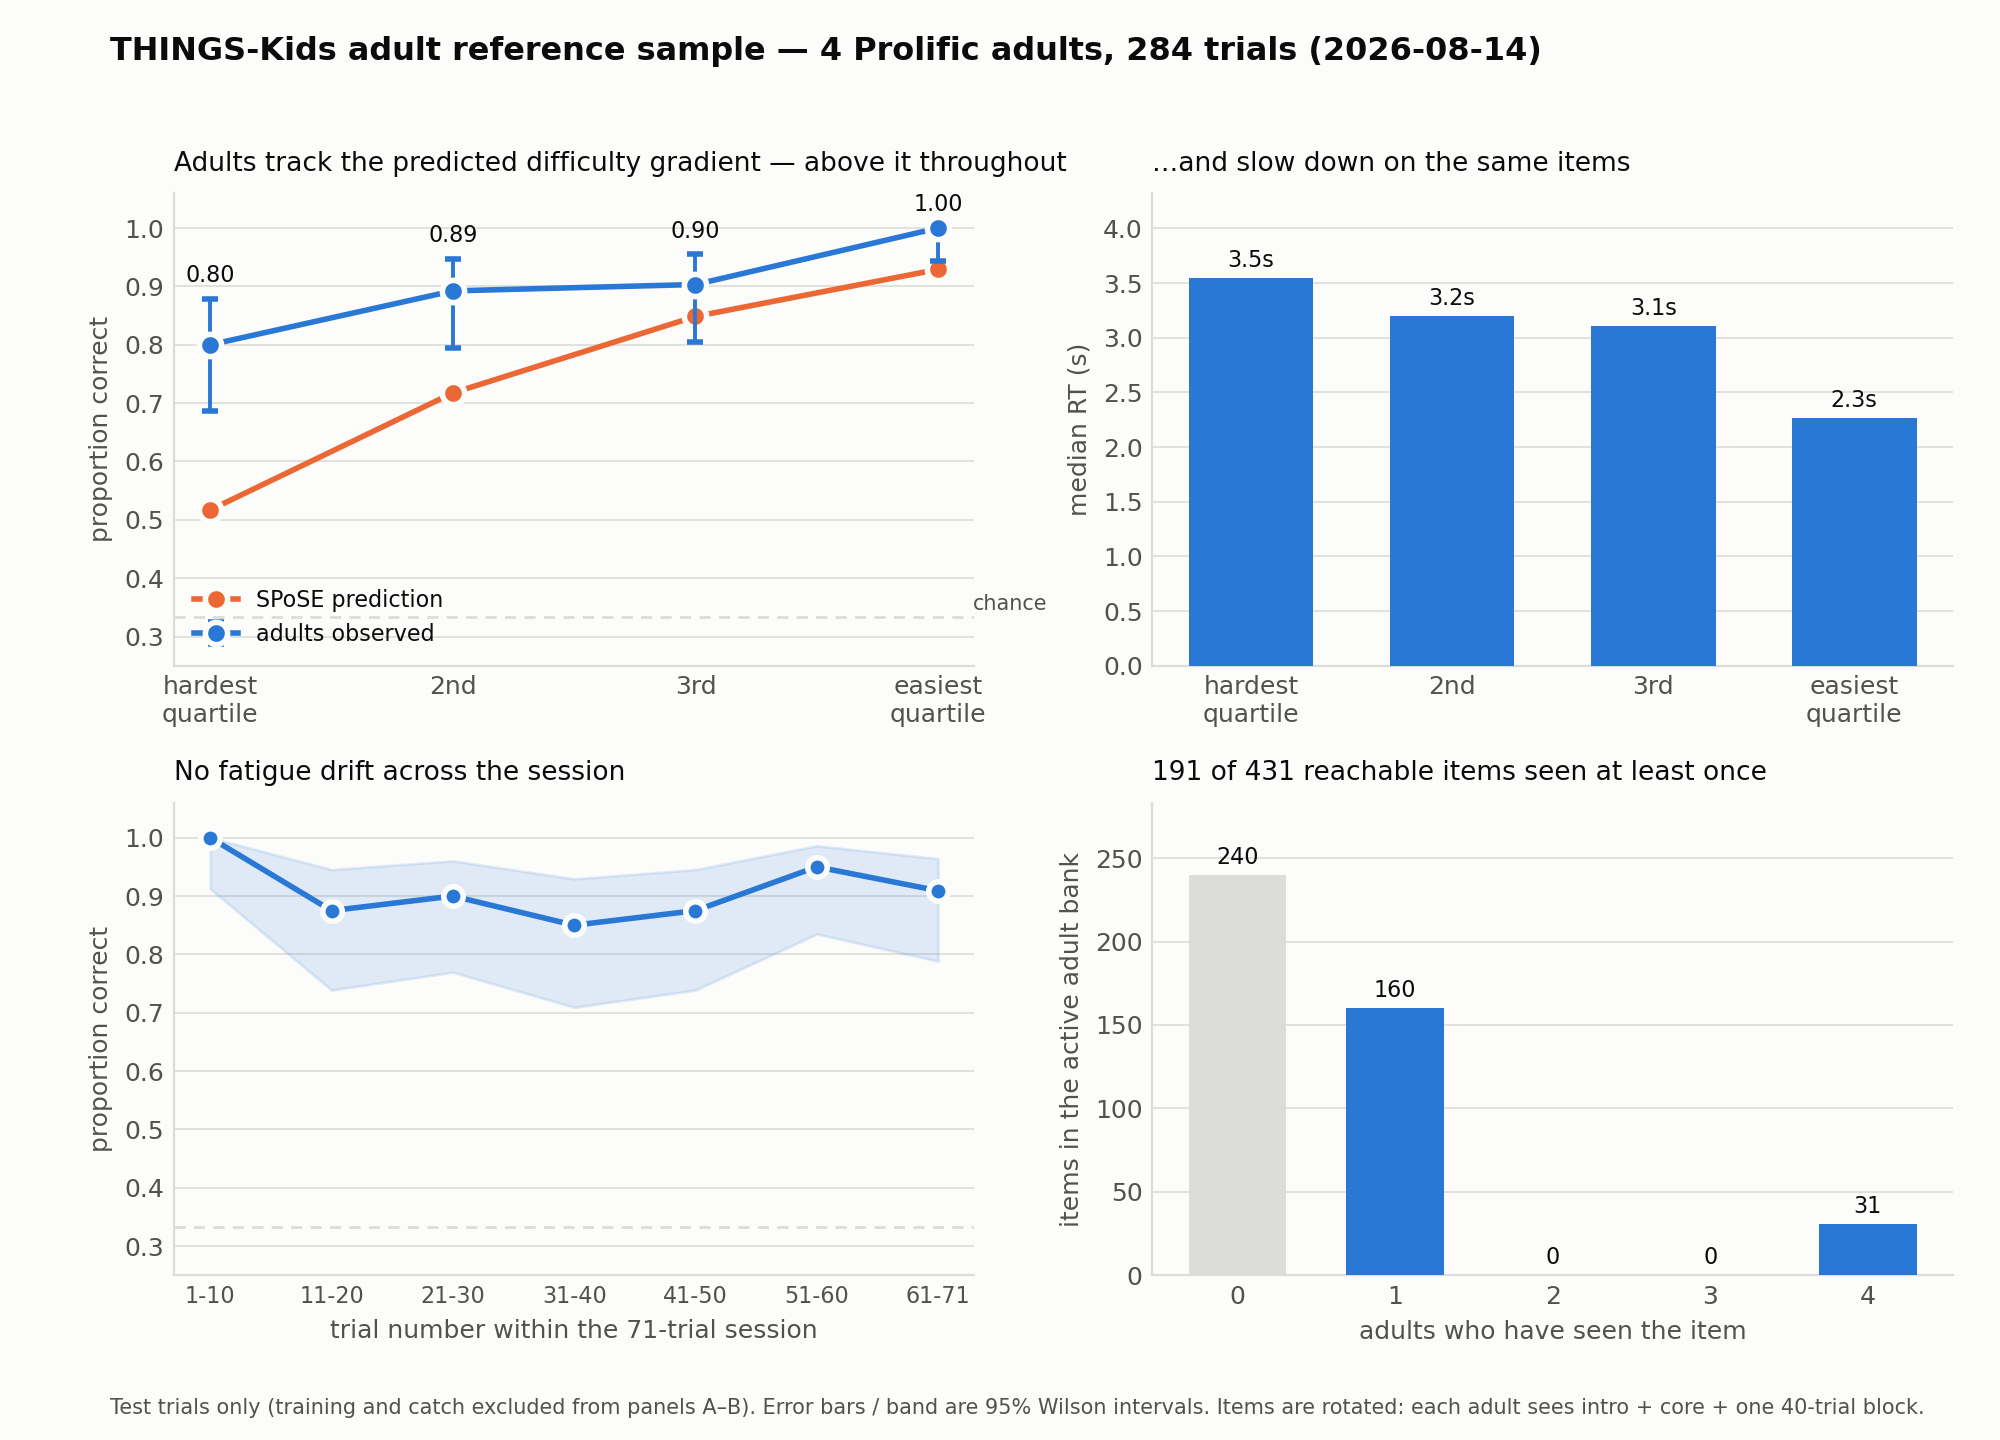
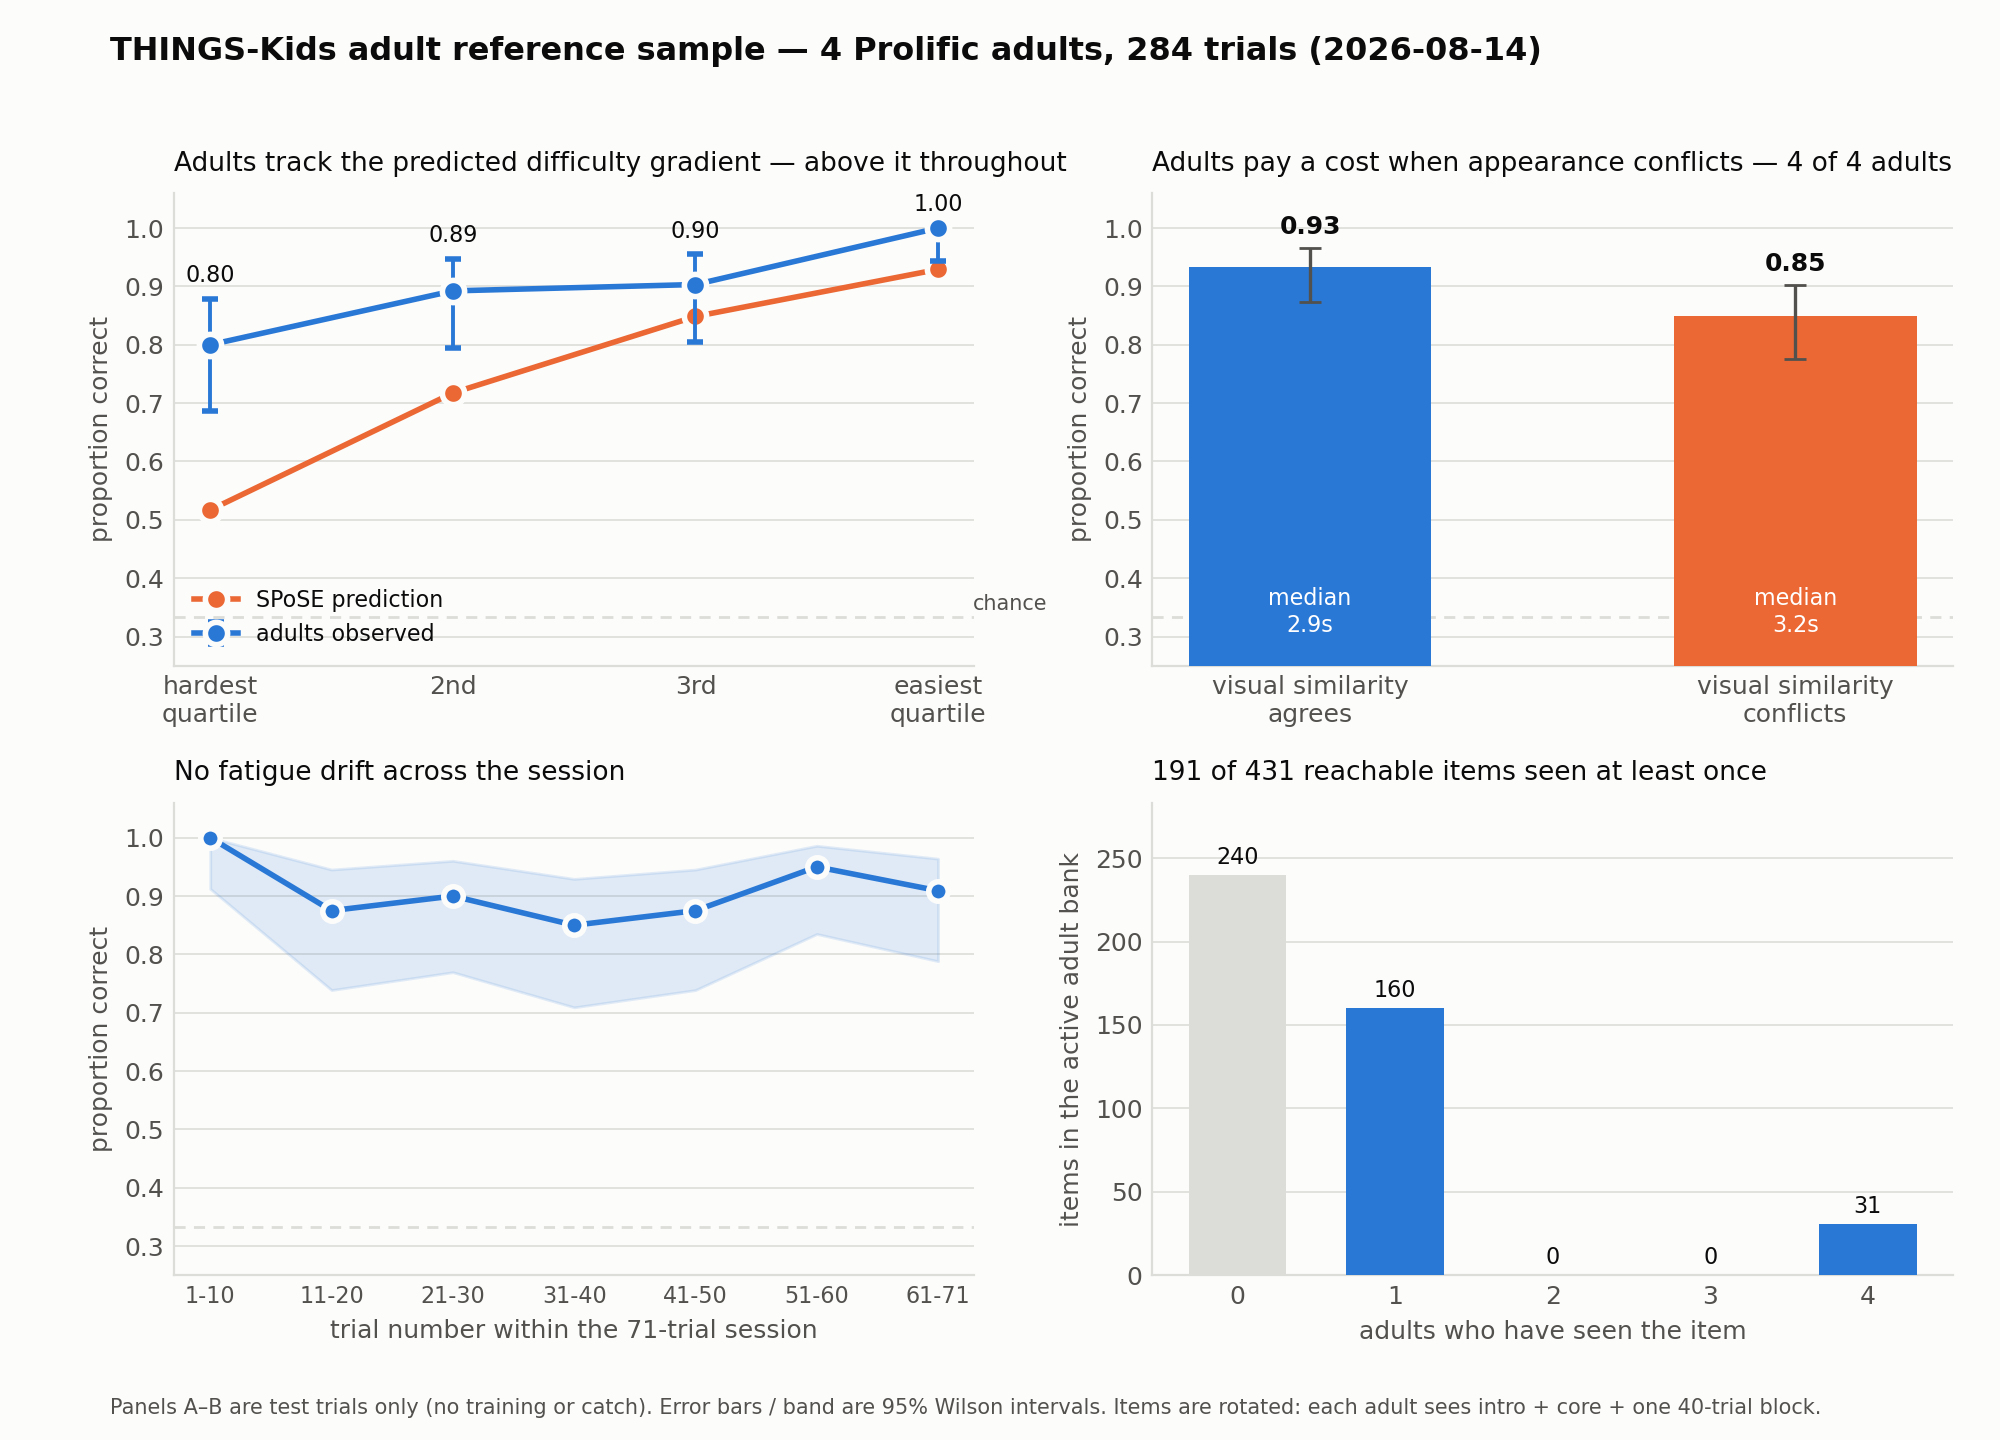
Report the visual-agree / visual-conflict contrast
This is the cut the developmental hypothesis lives on, and it was missing
from the first pass. All four adults are more accurate when appearance
agrees with the conceptual pair (.93 vs .85, +0.3s on conflict trials),
and they are not at ceiling on conflict items — so there is headroom for
children to show the larger cost the design predicts.

It replaces the RT-by-difficulty-quartile panel in the figure; that
gradient still appears in the console summary.

diff --git a/analysis/adult_figure.py b/analysis/adult_figure.py
@@ -42,6 +42,7 @@ for key in ("intro", "core", "blocks", "adult_blocks"):
     for item in manifest.get(key) or []:
         for t in (item if isinstance(item, list) else [item]):
             rows.append({"trial_id": t["trial_id"],
+                         "condition": t.get("condition"),
                          "p_correct_spose": t.get("p_correct_spose")})
 items = pd.DataFrame(rows).drop_duplicates("trial_id").set_index("trial_id")
 
@@ -50,7 +51,9 @@ finished = (sessions.complete.fillna(False).astype(bool)
             | sessions.complete_inferred.fillna(False).astype(bool)
             | sessions.finishedAt.notna())
 usable = sessions[sessions.is_prolific & sessions.qa_pass.fillna(False) & finished]
-d = trials[trials.participantID.isin(usable.participantID)].join(items, on="trial_id")
+d = trials[trials.participantID.isin(usable.participantID)].join(
+    items, on="trial_id", rsuffix="_m")
+d["condition"] = d["condition_m"]
 test = d[d.tier.isin(["familiar", "warmup"])].dropna(subset=["p_correct_spose"]).copy()
 
 
@@ -101,19 +104,35 @@ ax.set_axisbelow(True)
 for s in ("top", "right"):
     ax.spines[s].set_visible(False)
 
-# ---- B. RT across the same gradient ------------------------------------
+# ---- B. the designed contrast: visual agree vs. conflict ---------------
+# This is the cut the developmental hypothesis lives on. Adults weight
+# concept over appearance, so they should stay high when visual similarity
+# points away from the conceptual pair; children should not.
 ax = axes[0, 1]
-rt = g.rt.median().values / 1000
-ax.bar(x, rt, width=0.62, color=OBS, zorder=3)
-for xi, v in zip(x, rt):
-    ax.annotate(f"{v:.1f}s", (xi, v), textcoords="offset points", xytext=(0, 4),
-                ha="center", fontsize=8, color=INK)
-ax.set_xticks(x)
-ax.set_xticklabels(["hardest\nquartile", "2nd", "3rd", "easiest\nquartile"])
-ax.set_ylabel("median RT (s)")
-ax.set_ylim(0, max(rt) * 1.22)
-ax.set_title("…and slow down on the same items", fontsize=9.5, loc="left",
-             color=INK, pad=8)
+cond = d[d.condition.isin(["visual_agree", "visual_conflict"])]
+order = ["visual_agree", "visual_conflict"]
+cg2 = [cond[cond.condition == c] for c in order]
+vals = [gg.correct.mean() for gg in cg2]
+cis2 = [wilson(int(gg.correct.sum()), len(gg)) for gg in cg2]
+err2 = np.array([[v - lo for v, (lo, _) in zip(vals, cis2)],
+                 [hi - v for v, (_, hi) in zip(vals, cis2)]])
+xb = np.arange(2)
+ax.bar(xb, vals, width=0.5, color=[OBS, PRED], zorder=3)
+ax.errorbar(xb, vals, yerr=err2, fmt="none", ecolor=INK2, elinewidth=1.2,
+            capsize=4, zorder=4)
+for xi, v, gg, (_, hi) in zip(xb, vals, cg2, cis2):
+    ax.annotate(f"{v:.2f}", (xi, hi), textcoords="offset points", xytext=(0, 5),
+                ha="center", fontsize=9, color=INK, fontweight="bold")
+    # RT sits inside the bar; ylim starts at 0.25, so anchor above it.
+    ax.annotate(f"median\n{gg.rt.median()/1000:.1f}s", (xi, 0.30), ha="center",
+                fontsize=8, color="#ffffff", va="bottom")
+ax.axhline(1 / 3, color=GRID, lw=1, ls=(0, (4, 3)), zorder=1)
+ax.set_xticks(xb)
+ax.set_xticklabels(["visual similarity\nagrees", "visual similarity\nconflicts"])
+ax.set_ylabel("proportion correct")
+ax.set_ylim(0.25, 1.06)
+ax.set_title("Adults pay a cost when appearance conflicts — 4 of 4 adults",
+             fontsize=9.5, loc="left", color=INK, pad=8)
 ax.grid(axis="y", color=GRID, lw=0.6)
 ax.set_axisbelow(True)
 for s in ("top", "right"):
@@ -173,7 +192,7 @@ for s in ("top", "right"):
     ax.spines[s].set_visible(False)
 
 fig.text(0.055, 0.018,
-         "Test trials only (training and catch excluded from panels A–B). "
+         "Panels A–B are test trials only (no training or catch). "
          "Error bars / band are 95% Wilson intervals. "
          "Items are rotated: each adult sees intro + core + one 40-trial block.",
          fontsize=7.5, color=INK2)

diff --git a/analysis/adult_summary.py b/analysis/adult_summary.py
@@ -166,6 +166,30 @@ if len(t) > 2:
     print(it.to_string(float_format=lambda x: f"{x:.3f}") if len(it)
           else "  (no item has 2+ observations yet — the bank rotates faster than the sample)")
 
+# ---------- 3b. the designed contrast ----------
+print("\n" + "=" * 78)
+print("3b. VISUAL AGREE vs. VISUAL CONFLICT — the contrast the design rests on")
+print("=" * 78)
+
+cond = d[d.condition_m.isin(["visual_agree", "visual_conflict"])]
+print()
+print(cond.groupby("condition_m").agg(
+    n=("correct", "size"), items=("trial_id", "nunique"),
+    acc=("correct", "mean"), median_rt=("rt", "median")).to_string(
+        float_format=lambda x: f"{x:.3f}"))
+
+wide = cond.pivot_table(index="participantID", columns="condition_m",
+                        values="correct", aggfunc="mean")
+wide["cost"] = wide.visual_agree - wide.visual_conflict
+print("\nper adult (each sees 30 of each — the split is balanced by design):")
+print(wide.to_string(float_format=lambda x: f"{x:+.3f}"))
+same = int((wide.cost > 0).sum())
+print(f"\n{same} of {len(wide)} adults are more accurate when appearance agrees "
+      f"(mean cost {wide.cost.mean():.3f})")
+print("Children should show a LARGER cost if they weight appearance more heavily;\n"
+      "that gap is the developmental prediction, and adults are not at ceiling on\n"
+      "conflict items, so there is room to see it.")
+
 # ---------- 4. coverage ----------
 print("\n" + "=" * 78)
 print("4. BANK COVERAGE")
